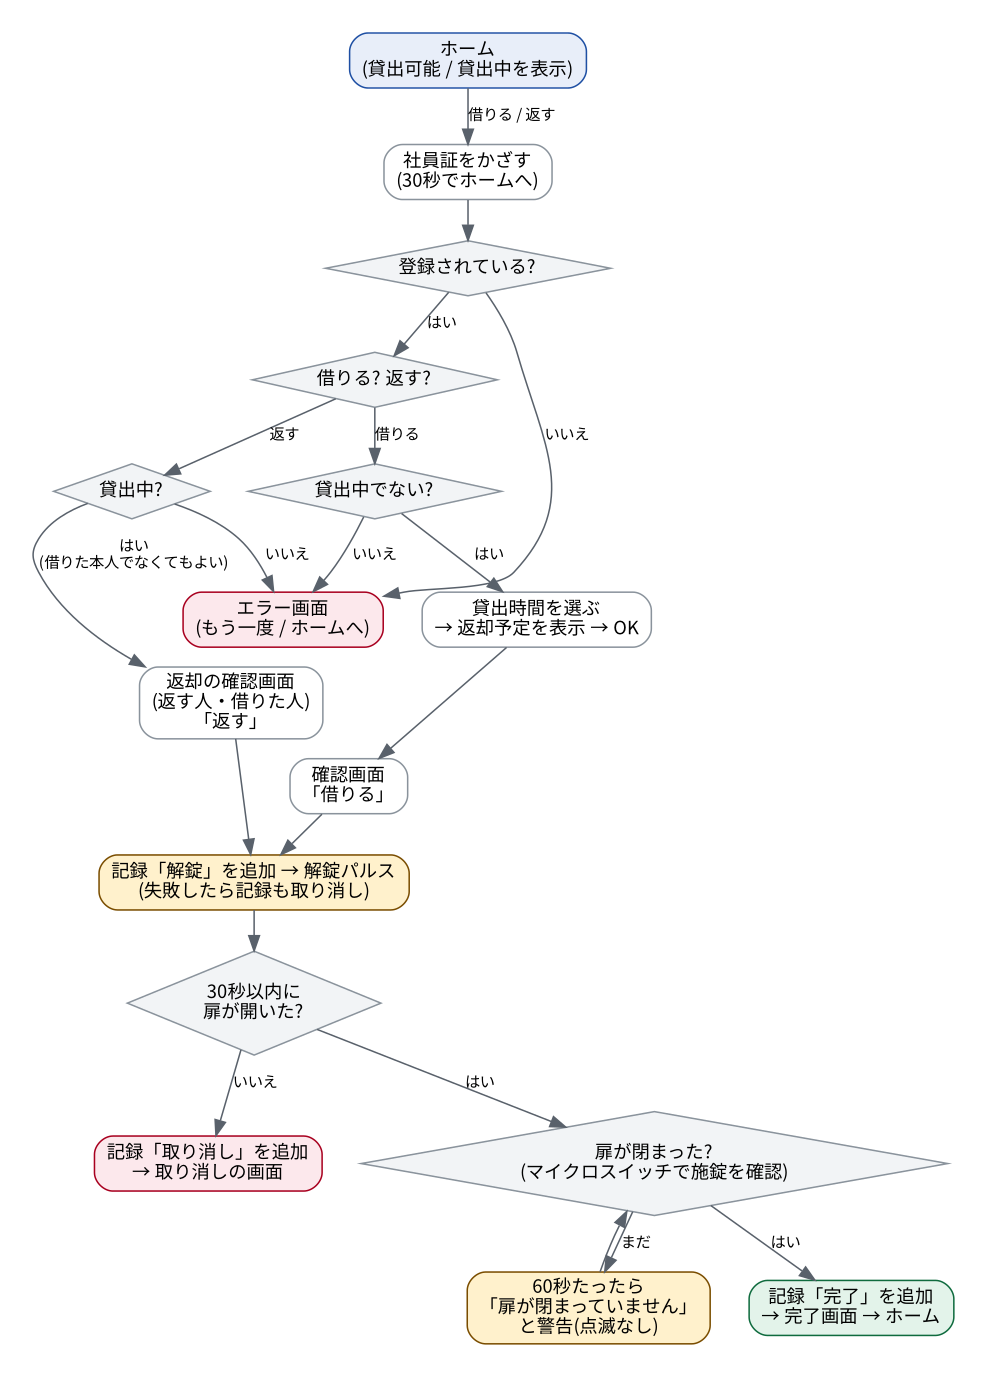
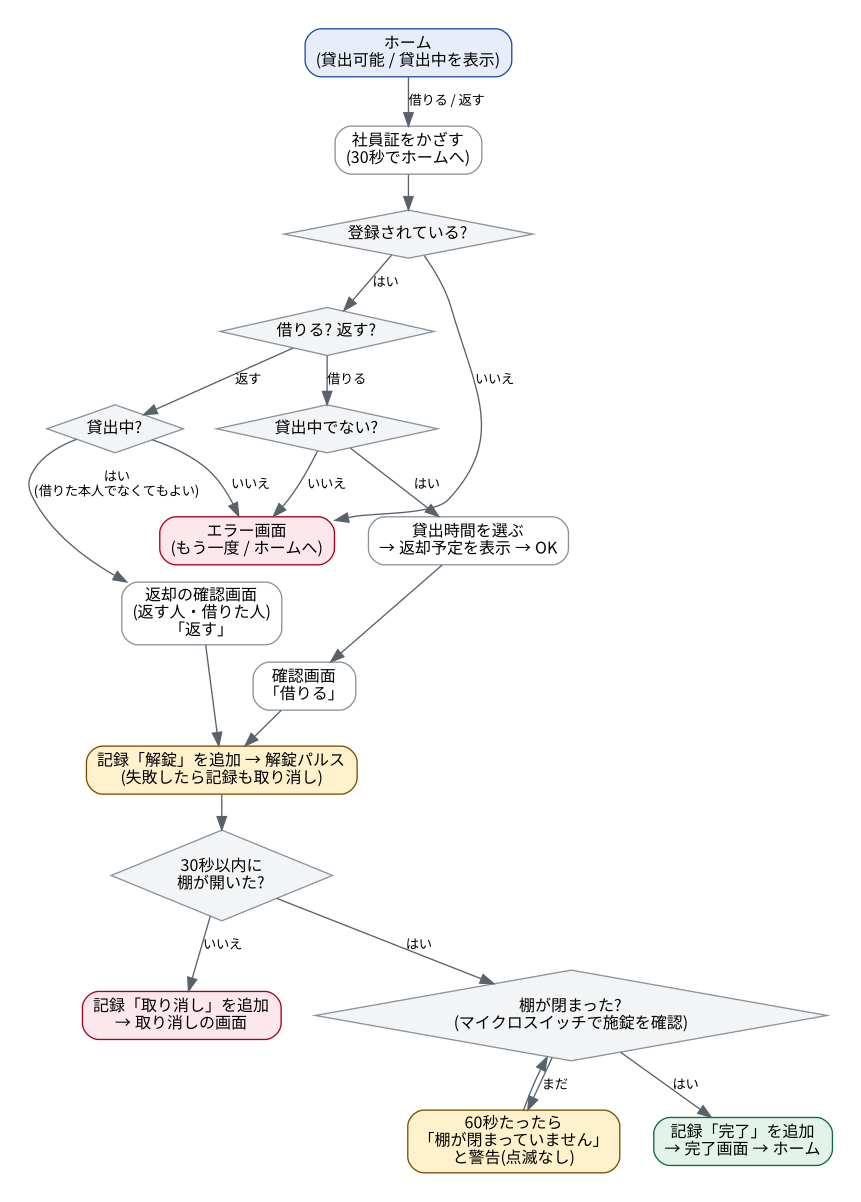
「扉」の表現を「棚」に変更

diff --git a/screens.py b/screens.py
@@ -1,7 +1,7 @@
 # 画面
-# 貸出: ホーム → 社員証 → 貸出時間 → 確認 → 扉(開けて閉める) → 完了 → ホーム
-# 返却: ホーム → 社員証 → 確認 → 扉(開けて閉める) → 完了 → ホーム
-# 扉が閉まって施錠したのを確かめてから「完了」を記録する。
+# 貸出: ホーム → 社員証 → 貸出時間 → 確認 → 棚(開けて閉める) → 完了 → ホーム
+# 返却: ホーム → 社員証 → 確認 → 棚(開けて閉める) → 完了 → ホーム
+# 棚が閉まって施錠したのを確かめてから「完了」を記録する。
 
 import logging
 import threading
@@ -293,7 +293,7 @@ def show_unlock_notice(parent, button_text):
     box = tkinter.Frame(parent, bg=YELLOW_TAG[1], highlightthickness=2, highlightbackground=YELLOW_TAG[0])
     box.pack(fill="x", pady=(8, 0))
     make_tag(box, "  注意  ", (WHITE, YELLOW_TAG[0])).pack(side="left", padx=10, pady=8)
-    make_label(box, f"「{button_text}」を押すと、扉のロックが「カチッ」と開きます。", 19, True,
+    make_label(box, f"「{button_text}」を押すと、棚のロックが「カチッ」と開きます。", 19, True,
                YELLOW_TAG[0]).pack(side="left", padx=(0, 10))
 
 
@@ -388,13 +388,13 @@ class ReturnConfirmScreen(Screen):
 
 
 class UnlockScreen(Screen):
-    # 解錠したあと、扉が開いて、また閉まる(施錠する)のを待つ。
+    # 解錠したあと、棚が開いて、また閉まる(施錠する)のを待つ。
     #   UNLOCK_WAIT_SECONDS 秒たっても開かれなかったら → 取り消し
     #   開いたまま UNLOCKED_WARN_SECONDS 秒たったら      → 閉めるように警告(点滅はさせない)
     #   閉まったら                                         → 完了を記録
     # 状態はマイクロスイッチ(lock.is_locked)で 0.2 秒ごとに見る
 
-    idle_timeout = False       # 扉が開いている間はホームに戻さない
+    idle_timeout = False       # 棚が開いている間はホームに戻さない
     unlock_expected = True    # 自分で解錠しているので、不正な開放ではない
 
     def __init__(self, app, action, user, due_at=None, rental=None):
@@ -411,29 +411,29 @@ class UnlockScreen(Screen):
         item = config.ITEM_NAME
         if action == BORROW:
             self.show_steps(BORROW_STEPS, 3)
-            self.what_to_do = f"{item}を取り出して、扉を閉めてください。"
+            self.what_to_do = f"{item}を取り出して、棚を閉めてください。"
             self.reminder = f"{item}は持ち歩かず、使い終わったらすぐに返してください。"
         else:
             self.show_steps(RETURN_STEPS, 2)
-            self.what_to_do = f"{item}を中に戻して、扉を閉めてください。"
-            self.reminder = f"{item}を持ったまま扉を閉めないよう、中に置いたか確かめてください。"
+            self.what_to_do = f"{item}を中に戻して、棚を閉めてください。"
+            self.reminder = f"{item}を持ったまま棚を閉めないよう、中に置いたか確かめてください。"
 
         self.footer.pack_forget()   # ここでは押すボタンがない
 
-        self.title_label = make_label(self.top_area, "扉のロックが開きました", 30, True)
+        self.title_label = make_label(self.top_area, "棚のロックが開きました", 30, True)
         self.title_label.pack(anchor="w")
-        self.guide_label = make_label(self.top_area, "扉を開けてください。", 22, True)
+        self.guide_label = make_label(self.top_area, "棚を開けてください。", 22, True)
         self.guide_label.pack(anchor="w", pady=(8, 0))
         make_label(self.top_area, self.reminder, 18, True, BLUE_TAG[0]).pack(anchor="w", pady=(6, 0))
 
         self.note_label = make_label(self.content_area, "", color=SUB_TEXT_COLOR)
         self.note_label.pack(anchor="w")
 
-        # 警告(扉を閉め忘れたとき)。最初は出さない
+        # 警告(棚を閉め忘れたとき)。最初は出さない
         self.warning_area = tkinter.Frame(self.content_area, bg=YELLOW_TAG[1], highlightthickness=2,
                                           highlightbackground=YELLOW_TAG[0])
         make_tag(self.warning_area, "  警告  ", (WHITE, YELLOW_TAG[0])).pack(side="left", padx=12, pady=12)
-        make_label(self.warning_area, "扉が閉まっていません。扉を閉めてください。", 20, True,
+        make_label(self.warning_area, "棚が閉まっていません。棚を閉めてください。", 20, True,
                    YELLOW_TAG[0]).pack(side="left", padx=(0, 12))
 
         self.watch_lock()
@@ -447,13 +447,13 @@ class UnlockScreen(Screen):
                 self.state = "開いた"
                 self.open_time = now
                 self.guide_label.configure(text=self.what_to_do)
-                self.note_label.configure(text="扉を閉めると、記録して完了します。")
+                self.note_label.configure(text="棚を閉めると、記録して完了します。")
             elif now - self.start_time > config.UNLOCK_WAIT_SECONDS:
                 self.give_up()
                 return
             else:
                 remaining = int(config.UNLOCK_WAIT_SECONDS - (now - self.start_time))
-                text = f"あと {remaining} 秒以内に扉を開けてください。開けないと取り消しになります。"
+                text = f"あと {remaining} 秒以内に棚を開けてください。開けないと取り消しになります。"
                 if self.note_label.cget("text") != text:
                     self.note_label.configure(text=text)
 
@@ -462,7 +462,7 @@ class UnlockScreen(Screen):
                 self.finish()
                 return
             if now - self.open_time > config.UNLOCKED_WARN_SECONDS and not self.warning_area.winfo_ismapped():
-                log.warning("扉が閉まっていません")
+                log.warning("棚が閉まっていません")
                 events.add_event(self.app.database, events.LEFT_OPEN,
                                  f"{self.action}のあと {config.UNLOCKED_WARN_SECONDS} 秒 開いたまま({self.user['name']})")
                 self.warning_area.pack(fill="x", pady=(14, 0))
@@ -482,14 +482,14 @@ class UnlockScreen(Screen):
 
     def give_up(self):
         try:
-            self.app.database.cancel(self.action, self.user, "扉が開かれなかったため")
+            self.app.database.cancel(self.action, self.user, "棚が開かれなかったため")
         except Exception as e:
             self.app.show_error(e)
             return
-        log.info("%sの取り消し(扉が開かれなかった): %s", self.action, self.user["employee_number"])
+        log.info("%sの取り消し(棚が開かれなかった): %s", self.action, self.user["employee_number"])
         export.update_excel(self.app.database)
         self.app.show(MessageScreen, title=f"{self.action}を取り消しました",
-                      message="扉が開かれなかったため、取り消しました。もう一度最初からやり直してください。",
+                      message="棚が開かれなかったため、取り消しました。もう一度最初からやり直してください。",
                       tag="取り消し")
 
 

diff --git a/pc_test.py b/pc_test.py
@@ -1,6 +1,6 @@
 # PC で試すための代わりの機器(config.USE_HARDWARE = False のとき main.py が使う)
 #   PcCardReader : 社員証の代わり。テスト用ウィンドウのボタンで「かざした」ことにする
-#   PcLock       : 電磁ロックとスイッチの代わり。テスト用ウィンドウのボタンで扉を開け閉めする
+#   PcLock       : 電磁ロックとスイッチの代わり。テスト用ウィンドウのボタンで棚を開け閉めする
 #   TestWindow   : 上の2つを操作する小さいウィンドウ(本体の画面とは別に出る)
 
 import logging
@@ -43,7 +43,7 @@ class PcLock:
     def __init__(self):
         self.ready = True
         self.locked = True
-        self.stuck = False   # True のときは、解錠しても扉が開かない(取り消しを試す用)
+        self.stuck = False   # True のときは、解錠しても棚が開かない(取り消しを試す用)
 
     def is_locked(self):
         return self.locked
@@ -85,11 +85,11 @@ class TestWindow(customtkinter.CTkToplevel):
         self.id_entry.pack(side="left")
         make_sub_button(id_row, "かざす", self.touch_typed_card, width=110, height=36).pack(side="left", padx=(8, 0))
 
-        # ---- 扉 ----
-        make_label(self, "扉", 16, True).pack(anchor="w", padx=12, pady=(14, 4))
+        # ---- 棚 ----
+        make_label(self, "棚", 16, True).pack(anchor="w", padx=12, pady=(14, 4))
         self.state_label = make_label(self, "", 15, True)
         self.state_label.pack(anchor="w", padx=12, pady=(0, 6))
-        make_sub_button(self, "扉を閉める(施錠)", self.relock, width=310, height=40).pack(padx=12, pady=3)
+        make_sub_button(self, "棚を閉める(施錠)", self.relock, width=310, height=40).pack(padx=12, pady=3)
         make_sub_button(self, "こじ開ける(不正な開放を試す)", self.force_open, width=310, height=40).pack(padx=12, pady=3)
 
         self.stuck_box = customtkinter.CTkCheckBox(self, text="ロックが外れない(取り消しを試す)", font=make_font(14),
@@ -134,7 +134,7 @@ class TestWindow(customtkinter.CTkToplevel):
         if card_id != "":
             self.touch(card_id)
 
-    # ---- 扉 ----
+    # ---- 棚 ----
 
     def relock(self):
         self.lock.locked = True
@@ -145,10 +145,10 @@ class TestWindow(customtkinter.CTkToplevel):
     def change_stuck(self):
         self.lock.stuck = self.stuck_box.get() == 1
         if self.lock.stuck:
-            text = (f"ON:「借りる」「返す」を押しても扉が開きません。"
+            text = (f"ON:「借りる」「返す」を押しても棚が開きません。"
                     f"{config.UNLOCK_WAIT_SECONDS} 秒後に取り消しの画面になります。")
         else:
-            text = "OFF:「借りる」「返す」を押すと扉が開きます。"
+            text = "OFF:「借りる」「返す」を押すと棚が開きます。"
         self.stuck_label.configure(text=text)
 
     # ---- 0.3 秒ごとに表示を最新にする ----

diff --git a/forced_open.py b/forced_open.py
@@ -1,7 +1,7 @@
 # 追加機能: 不正な開放の検知(config.USE_FORCED_OPEN_CHECK)
 # プログラムが解錠していないのに、マイクロスイッチが「開いた」になったら
 # (こじ開けられた、ロックが壊れた など)記録して、警告の画面を出す。
-# 扉が閉まったらホームに戻る。部品は今のマイクロスイッチだけで足りる。
+# 棚が閉まったらホームに戻る。部品は今のマイクロスイッチだけで足りる。
 
 import logging
 
@@ -13,11 +13,11 @@ log = logging.getLogger(__name__)
 
 def check(app):
     # gui.py の every_second から 1 秒ごとに呼ばれる
-    if app.screen.unlock_expected:   # 解錠して扉を待っている画面などでは調べない
+    if app.screen.unlock_expected:   # 解錠して棚を待っている画面などでは調べない
         return
     if app.lock.is_locked() is False:
-        log.warning("解錠していないのに扉が開きました")
-        events.add_event(app.database, events.FORCED_OPEN, "解錠していないのに扉が開いた")
+        log.warning("解錠していないのに棚が開きました")
+        events.add_event(app.database, events.FORCED_OPEN, "解錠していないのに棚が開いた")
         app.show(ForcedOpenScreen)
 
 
@@ -29,15 +29,15 @@ class ForcedOpenScreen(Screen):
         super().__init__(app)
         self.footer.pack_forget()
         make_tag(self.top_area, "  警告  ", RED_TAG).pack(anchor="w", pady=(0, 10))
-        make_label(self.top_area, "扉が開いています", 28, True, RED_TAG[0]).pack(anchor="w")
-        make_label(self.top_area, "ロックを外していないのに扉が開きました。管理者に連絡してください。", 20,
+        make_label(self.top_area, "棚が開いています", 28, True, RED_TAG[0]).pack(anchor="w")
+        make_label(self.top_area, "ロックを外していないのに棚が開きました。管理者に連絡してください。", 20,
                    True).pack(anchor="w", pady=(8, 0))
-        make_label(self.content_area, "扉を閉めると、ホームに戻ります。", color=SUB_TEXT_COLOR).pack(anchor="w")
+        make_label(self.content_area, "棚を閉めると、ホームに戻ります。", color=SUB_TEXT_COLOR).pack(anchor="w")
         self.wait_for_close()
 
     def wait_for_close(self):
         if self.app.lock.is_locked():
-            log.info("扉が閉まりました")
+            log.info("棚が閉まりました")
             self.app.go_home()
             return
         self.run_later(500, self.wait_for_close)

diff --git a/config.py b/config.py
@@ -9,7 +9,7 @@ EXPORT_DIR = BASE_DIR / "exports"   # Excel の保存先
 
 # ---- 動かし方 ----
 MUST_ONLY = False       # True にすると追加機能を全部止めて、MUST だけの動きになる
-USE_HARDWARE = True     # False にすると PC で試せる(社員証と扉はテスト用ウィンドウのボタンで代わりにする)
+USE_HARDWARE = True     # False にすると PC で試せる(社員証と棚はテスト用ウィンドウのボタンで代わりにする)
 
 CAMERA_NAME = "セキュアカメラ"
 ITEM_NAME = "カメラ"    # 箱から取り出すもの。画面の「○○を取り出して」に使う
@@ -36,8 +36,8 @@ CARD_TARGETS = ["212F", "106A", "106B"]  # FeliCa / Type A / Type B
 # 待ち時間(秒)。MTG では 10〜30 秒で、実機で確かめてから決めることになった
 CARD_WAIT_SECONDS = 30        # 社員証をかざすのを待つ
 IDLE_SECONDS = 30             # 操作がないとホームに戻る
-UNLOCK_WAIT_SECONDS = 30   # 解錠してから扉が開かれるのを待つ(過ぎたら取り消し)
-UNLOCKED_WARN_SECONDS = 60  # 扉が開いたままこれだけたったら警告を出す
+UNLOCK_WAIT_SECONDS = 30   # 解錠してから棚が開かれるのを待つ(過ぎたら取り消し)
+UNLOCKED_WARN_SECONDS = 60  # 棚が開いたままこれだけたったら警告を出す
 DONE_SCREEN_SECONDS = 5       # 完了画面を出しておく
 
 # 日本語入力(管理画面の氏名)。fcitx5 + Mozc を入れておく(docs/日本語入力の設定.txt)
@@ -69,7 +69,7 @@ BACKUP_KEEP_DAYS = 31        # 記録は最低1か月残す決まりなので、
 
 USE_ADMIN_SCREEN = True      # 管理画面(admin_screen.py)。OFF なら登録は register.py で
 USE_EVENTS = True            # できごとの記録(events.py):未登録カード、不正な開放、閉め忘れ、エラー
-USE_FORCED_OPEN_CHECK = True # 解錠していないのに扉が開いたら警告する(forced_open.py)
+USE_FORCED_OPEN_CHECK = True # 解錠していないのに棚が開いたら警告する(forced_open.py)
 
 USE_USER_INFO = True         # 利用者の部署と、利用停止・再開(user_info.py)
 

diff --git a/gui.py b/gui.py
@@ -82,7 +82,7 @@ class App(customtkinter.CTk):
         if self.clock_label.cget("text") != text:
             self.clock_label.configure(text=text)
 
-        # 追加機能: 解錠していないのに扉が開いていないか
+        # 追加機能: 解錠していないのに棚が開いていないか
         if config.USE_FORCED_OPEN_CHECK:
             forced_open.check(self)
 
@@ -130,7 +130,7 @@ class App(customtkinter.CTk):
         elif isinstance(error, LockError):
             log.error("解錠に失敗: %s", error)
             events.add_event(self.database, events.ERROR, f"解錠に失敗: {error}")
-            title = "扉が開きませんでした"
+            title = "棚が開きませんでした"
             message = "記録は取り消しました。管理者に連絡してください。"
         elif isinstance(error, CardReaderError):
             log.error("カードリーダーのエラー: %s", error)
@@ -141,12 +141,12 @@ class App(customtkinter.CTk):
             log.exception("DB のエラー", exc_info=error)
             events.add_event(self.database, events.ERROR, f"DB: {error}")
             title = "記録できませんでした"
-            message = "扉は開けていません。続く場合は管理者に連絡してください。"
+            message = "棚は開けていません。続く場合は管理者に連絡してください。"
         else:
             log.exception("想定外のエラー", exc_info=error)
             events.add_event(self.database, events.ERROR, f"想定外: {error!r}")
             title = "処理を中止しました"
-            message = "扉は開けていません。続く場合は管理者に連絡してください。"
+            message = "棚は開けていません。続く場合は管理者に連絡してください。"
 
         self.show(MessageScreen, title=title, message=message, retry=retry, retry_text=retry_text,
                   back=back, back_text=back_text)

diff --git a/db.py b/db.py
@@ -5,10 +5,10 @@
 #
 # 1回の貸出・返却で 2 行書く
 #   解錠したとき          step = "解錠"
-#   扉が閉まって施錠したとき step = "完了"
-#   (扉が開かれなかったとき step = "取り消し")
+#   棚が閉まって施錠したとき step = "完了"
+#   (棚が開かれなかったとき step = "取り消し")
 # カメラが貸出中かどうかは「最後の完了の行が貸出か返却か」で決める。
-# 扉が閉まるまでは完了にしないので、扉を開けただけの記録が残っても貸出中にはならない。
+# 棚が閉まるまでは完了にしないので、棚を開けただけの記録が残っても貸出中にはならない。
 
 import sqlite3
 import unicodedata
@@ -151,8 +151,8 @@ class Database:
         )
 
     def start(self, action, user, unlock, due_at=None, now=None):
-        # 「解錠」を記録して扉を開ける。
-        # 記録に失敗したら扉は開けない。扉が開かなかったら記録は取り消し(rollback)。
+        # 「解錠」を記録して棚を開ける。
+        # 記録に失敗したら棚は開けない。棚が開かなかったら記録は取り消し(rollback)。
         conn = self.open()
         try:
             with conn:
@@ -168,7 +168,7 @@ class Database:
             conn.close()
 
     def finish(self, action, user, due_at=None, now=None):
-        # 扉が閉まって施錠したら呼ぶ
+        # 棚が閉まって施錠したら呼ぶ
         conn = self.open()
         try:
             with conn:
@@ -177,7 +177,7 @@ class Database:
             conn.close()
 
     def cancel(self, action, user, note, now=None):
-        # 扉が開かれなかったときなど
+        # 棚が開かれなかったときなど
         conn = self.open()
         try:
             with conn:

diff --git a/tests/test_db.py b/tests/test_db.py
@@ -17,7 +17,7 @@ def do_nothing():
 
 
 def broken_unlock():
-    raise RuntimeError("扉が開かない")
+    raise RuntimeError("棚が開かない")
 
 
 class DatabaseTest(unittest.TestCase):
@@ -58,7 +58,7 @@ class DatabaseTest(unittest.TestCase):
     # ---- 貸出 ----
 
     def test_not_rented_until_relocked(self):
-        # 解錠しただけでは貸出中にならない(扉が閉まって完了してから)
+        # 解錠しただけでは貸出中にならない(棚が閉まって完了してから)
         due = NOW + timedelta(minutes=30)
         self.db.start(BORROW, self.yamada, do_nothing, due_at=due, now=NOW)
         self.assertIsNone(self.db.current_rental())
@@ -70,7 +70,7 @@ class DatabaseTest(unittest.TestCase):
 
     def test_cancel_keeps_camera_available(self):
         self.db.start(BORROW, self.yamada, do_nothing, due_at=NOW, now=NOW)
-        self.db.cancel(BORROW, self.yamada, "扉が開かれなかったため")
+        self.db.cancel(BORROW, self.yamada, "棚が開かれなかったため")
         self.assertIsNone(self.db.current_rental())
         self.assertEqual(self.steps(), [(BORROW, UNLOCK), (BORROW, CANCEL)])
 

diff --git a/tests/test_addons.py b/tests/test_addons.py
@@ -163,7 +163,7 @@ class AddonTest(unittest.TestCase):
 
     def test_events_are_added(self):
         events.add_event(self.database, events.UNKNOWN_CARD, "カードID FFFF")
-        events.add_event(self.database, events.FORCED_OPEN, "解錠していないのに扉が開いた")
+        events.add_event(self.database, events.FORCED_OPEN, "解錠していないのに棚が開いた")
         kinds = [e["kind"] for e in events.list_events(self.database)]
         self.assertEqual(kinds, [events.FORCED_OPEN, events.UNKNOWN_CARD])   # 新しい順
 
@@ -262,7 +262,7 @@ class AddonTest(unittest.TestCase):
         opened = []
         with self.assertRaises(sqlite3.OperationalError):
             self.database.start(BORROW, self.mori, lambda: opened.append(True), due_at=NOW)
-        self.assertEqual(opened, [])   # 記録できないので扉は開けていない
+        self.assertEqual(opened, [])   # 記録できないので棚は開けていない
 
 
     # ---- 部署と利用停止 ----

diff --git a/events.py b/events.py
@@ -1,8 +1,8 @@
 # 追加機能: できごとの記録(config.USE_EVENTS)
 # 貸出・返却(logs)とは別に、管理者が知っておきたいことを残す。これも追加するだけ。
 #   未登録カード   登録されていない社員証がかざされた
-#   不正な開放     解錠していないのに扉が開いた
-#   閉め忘れ       扉が開いたまま一定時間たった
+#   不正な開放     解錠していないのに棚が開いた
+#   閉め忘れ       棚が開いたまま一定時間たった
 #   エラー         解錠の失敗、カードリーダーの故障、DB の異常など
 #   期限切れ       返却予定を過ぎた(1 回の貸出につき 1 回)
 #   容量不足       SD カードの空きが少ない

diff --git a/gui_parts.py b/gui_parts.py
@@ -148,7 +148,7 @@ def make_line(parent, thickness=1, color=LINE_COLOR):
 
 class Screen(customtkinter.CTkFrame):
     idle_timeout = True        # 放っておいたらホームに戻すか
-    unlock_expected = False   # この画面の間は扉が開いていてもおかしくないか(不正な開放の検知で使う)
+    unlock_expected = False   # この画面の間は棚が開いていてもおかしくないか(不正な開放の検知で使う)
 
     def __init__(self, app):
         super().__init__(app.body, fg_color=WHITE, corner_radius=0)

diff --git a/lock.py b/lock.py
@@ -1,6 +1,6 @@
 # 電磁ロック(LE-53)の制御
 # GPIO で MOSFET を ON/OFF する。ロックを GPIO に直接つながないこと。
-# 解錠は短いパルスを出すだけ(LE-53 は一度外れれば、扉を閉めると勝手にロックされる)
+# 解錠は短いパルスを出すだけ(LE-53 は一度外れれば、棚を閉めると勝手にロックされる)
 
 import logging
 import time
